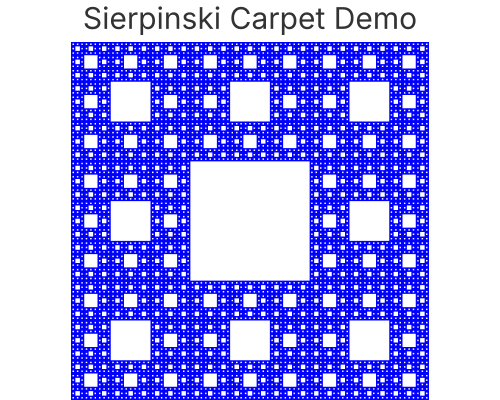
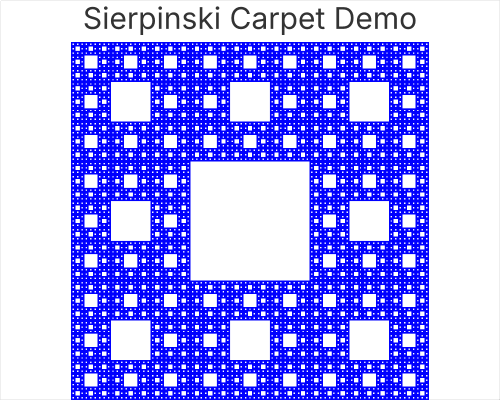
tick gap

Changed region(s): [[0.15, 0.12, 0.87, 1.0]]

diff --git a/src/core/ticks.rs b/src/core/ticks.rs
@@ -18,13 +18,16 @@
 //!    returns its own nice values (`1/2/5` steps, calendar steps, powers of
 //!    ten). Because it rounds, the list can be slightly denser than requested.
 //! 3. **Measure and back off.** The labels that were really produced are
-//!    projected along the axis, rotation included. If neighbours would touch,
-//!    the scale is asked for fewer ticks, which moves it to its next coarser
-//!    step. The first list that fits wins.
+//!    projected along the axis, rotation included. If neighbours would come
+//!    closer than [`LABEL_GAP_IN_FONTS`] font sizes, a continuous scale is asked
+//!    for fewer ticks, which moves it to its next coarser step, and a
+//!    categorical scale keeps every `n`th category. The first list that fits
+//!    wins.
 //!
-//! If even the coarsest step the scale offers does not fit, only the two end
-//! labels are kept: the axis still reads as a range, and the resolver never
-//! invents an interval outside the scale's ladder.
+//! If even the coarsest continuous step (or the sparsest categorical subset)
+//! does not fit, only the two end labels are kept: the axis still reads as a
+//! range, and the resolver never invents an interval outside the scale's
+//! ladder.
 //!
 //! # Overrides
 //!
@@ -60,8 +63,10 @@ const MIN_SEARCH_TICKS: usize = 2;
 /// The most ticks the length budget ever asks for, however long the axis is.
 ///
 /// Without a cap, a 2000-pixel axis would ask for ~40 labels at the default
-/// font size, which is a wall of text rather than a scale.
-const MAX_HINT_TICKS: usize = 12;
+/// font size, which is a wall of text rather than a scale. Ten matches the
+/// upper end of mainstream defaults (D3's `ticks` asks for ten, Matplotlib's
+/// auto locator tops out around nine); twelve was a little too dense.
+const MAX_HINT_TICKS: usize = 10;
 
 /// Room one label wants along the axis, in multiples of the tick font size.
 ///
@@ -70,7 +75,10 @@ const MAX_HINT_TICKS: usize = 12;
 const SPACING_IN_FONTS: f64 = 4.0;
 
 /// Breathing room between two labels, in multiples of the tick font size.
-const LABEL_GAP_IN_FONTS: f64 = 0.5;
+///
+/// One em is roughly two lowercase letters (at ~0.55em each), so neighbouring
+/// labels stay visibly separate instead of reading as one long string.
+const LABEL_GAP_IN_FONTS: f64 = 1.0;
 
 /// Which way the labels run, for measuring a label box against the axis.
 ///
@@ -193,14 +201,18 @@ fn auto_ticks(
     let font_size = theme.tick_label_size.max(1.0);
     let densest = count_hint(available, font_size);
 
+    let gap = (font_size * LABEL_GAP_IN_FONTS).max(2.0);
+
     // A categorical scale owns its tick list: one tick per category, no matter
-    // what count it is asked for. Measuring the categories is still useful (the
-    // axis band needs their width), so hand back what the scale has.
+    // what count it is asked for. When those labels do not fit, thin the list
+    // here rather than asking the scale for a different count it would ignore.
     if matches!(scale.scale_type(), Scale::Discrete) {
-        return scale.suggest_ticks(densest);
+        let ticks = scale.suggest_ticks(densest);
+        return fit_discrete(
+            scale, ticks, available, direction, angle_deg, font_size, gap,
+        );
     }
 
-    let gap = (font_size * LABEL_GAP_IN_FONTS).max(2.0);
     let mut crowded: Option<Vec<Tick>> = None;
 
     // Search the scale's step ladder from dense to coarse. The lower bound is
@@ -232,6 +244,49 @@ fn auto_ticks(
     // individual interior labels instead would produce steps such as 150 or
     // uneven gaps, which mislead a reader who expects equal spacing.
     crowded.map(keep_ends).unwrap_or_default()
+}
+
+/// Keeps every `n`th label of a categorical axis until the labels fit.
+///
+/// A discrete scale always returns one tick per category, so the continuous
+/// back-off loop cannot make it coarser. Dropping categories outright would
+/// misrepresent the axis, but showing every category when the names are long
+/// turns the labels into one unreadable string. Keeping a regular subset is the
+/// categorical equivalent of moving to a coarser nice step.
+fn fit_discrete(
+    scale: &dyn ScaleTrait,
+    ticks: Vec<Tick>,
+    available: f64,
+    direction: AxisDirection,
+    angle_deg: f64,
+    font_size: f64,
+    gap: f64,
+) -> Vec<Tick> {
+    if ticks.len() <= 2 {
+        return ticks;
+    }
+
+    let needed = labels_need(&ticks, direction, angle_deg, font_size) + gap;
+    let adjacent = nearest_gap(scale, &ticks, available);
+    if !adjacent.is_finite() || adjacent <= 0.0 || adjacent >= needed {
+        return ticks;
+    }
+
+    // Categories are evenly spaced, so the smallest step whose gap clears the
+    // widest label is the densest readable subset. Start at two: one already
+    // failed the fit check above.
+    let step = (needed / adjacent).ceil().max(2.0);
+    if !step.is_finite() || step >= ticks.len() as f64 {
+        return keep_ends(ticks);
+    }
+    let step = step as usize;
+    let thinned: Vec<Tick> = ticks.iter().step_by(step).cloned().collect();
+
+    if thinned.len() <= 1 {
+        keep_ends(ticks)
+    } else {
+        thinned
+    }
 }
 
 /// Reduces a tick list to its two end labels.
@@ -284,6 +339,19 @@ mod tests {
         .unwrap()
     }
 
+    fn discrete_scale(labels: &[String]) -> std::sync::Arc<dyn ScaleTrait> {
+        create_scale(
+            &Scale::Discrete,
+            ScaleDomain::Discrete(labels.to_vec()),
+            Expansion {
+                mult: (0.0, 0.0),
+                add: (0.5, 0.5),
+            },
+            None,
+        )
+        .unwrap()
+    }
+
     /// A vertical axis is limited by label *height*, so a tall panel with short
     /// numbers carries a dense but still readable scale.
     #[test]
@@ -299,17 +367,18 @@ mod tests {
             &theme,
         );
 
-        // 600 / (13 x 4) = 11.5, so the budget is 11. All labels are short, so
-        // the densest candidate should survive the fit check.
+        // 600 / (13 x 4) = 11.5, capped at ten. All labels are short, so the
+        // densest candidate should survive the fit check.
         assert!(
-            (9..=12).contains(&ticks.len()),
+            (MIN_HINT_TICKS..=MAX_HINT_TICKS + 1).contains(&ticks.len()),
             "expected a dense but readable y axis, got {} ticks",
             ticks.len()
         );
 
-        // The labels must not touch: they are one font size tall.
+        // Labels are one font size tall and keep a further font size of air.
         let gap = nearest_gap(scale.as_ref(), &ticks, 600.0);
-        assert!(gap >= theme.tick_label_size * 1.5, "labels collide: {gap}");
+        let air = theme.tick_label_size * (1.0 + LABEL_GAP_IN_FONTS);
+        assert!(gap >= air, "labels are too close: gap {gap}, need {air}");
     }
 
     /// Wide labels must reduce the count until the widest one fits between its
@@ -350,10 +419,76 @@ mod tests {
             .iter()
             .map(|t| estimate_text_width(&t.label, theme.tick_label_size))
             .fold(0.0, f64::max);
+        let air = theme.tick_label_size * LABEL_GAP_IN_FONTS;
         assert!(
-            gap + 0.001 >= widest,
-            "labels would overlap: gap {gap}, widest {widest}"
+            gap + 0.001 >= widest + air,
+            "labels are too close: gap {gap}, widest {widest}, air {air}"
         );
+    }
+
+    /// A categorical scale ignores the length budget, so crowded category names
+    /// used to be drawn on top of each other. It now keeps every `n`th label.
+    #[test]
+    fn crowded_category_labels_are_thinned_evenly() {
+        let theme = Theme::default();
+        let labels: Vec<String> = (0..20).map(|i| format!("category {i:02}")).collect();
+        let scale = discrete_scale(&labels);
+
+        let ticks = resolve_ticks(
+            scale.as_ref(),
+            None,
+            240.0,
+            AxisDirection::Horizontal,
+            0.0,
+            &theme,
+        );
+
+        assert!(
+            ticks.len() < labels.len(),
+            "the long category names should have been thinned"
+        );
+        assert!(ticks.len() >= 2, "an axis still needs labels");
+
+        let step = ticks[1].value - ticks[0].value;
+        assert!(step >= 2.0, "step should skip at least one category");
+        assert!(
+            ticks
+                .windows(2)
+                .all(|pair| pair[1].value - pair[0].value == step),
+            "the kept categories should be evenly spaced: {:?}",
+            ticks.iter().map(|tick| tick.value).collect::<Vec<_>>()
+        );
+
+        let gap = nearest_gap(scale.as_ref(), &ticks, 240.0);
+        let widest = ticks
+            .iter()
+            .map(|tick| estimate_text_width(&tick.label, theme.tick_label_size))
+            .fold(0.0, f64::max);
+        let air = theme.tick_label_size * LABEL_GAP_IN_FONTS;
+        assert!(
+            gap + 0.001 >= widest + air,
+            "kept labels are still too close: gap {gap}, widest {widest}, air {air}"
+        );
+    }
+
+    /// Short category labels are left alone; thinning only starts when the
+    /// measured labels need the room.
+    #[test]
+    fn readable_category_labels_are_not_dropped() {
+        let theme = Theme::default();
+        let labels: Vec<String> = ["A", "B", "C"].into_iter().map(String::from).collect();
+        let scale = discrete_scale(&labels);
+
+        let ticks = resolve_ticks(
+            scale.as_ref(),
+            None,
+            600.0,
+            AxisDirection::Horizontal,
+            0.0,
+            &theme,
+        );
+
+        assert_eq!(ticks.len(), labels.len());
     }
 
     /// A huge canvas must not turn into a wall of labels.
@@ -369,8 +504,10 @@ mod tests {
             0.0,
             &theme,
         );
+        // The scale may answer with one more tick than requested when it snaps
+        // to a nice step, but the budget itself stays capped.
         assert!(
-            ticks.len() <= MAX_HINT_TICKS * 2,
+            ticks.len() <= MAX_HINT_TICKS + 1,
             "capped count overshot: {}",
             ticks.len()
         );
@@ -496,13 +633,14 @@ mod tests {
             .map(|tick| estimate_text_width(&tick.label, theme.tick_label_size))
             .fold(0.0, f64::max);
         let gap = nearest_gap(wide.as_ref(), &ticks, 300.0);
+        let air = theme.tick_label_size * LABEL_GAP_IN_FONTS;
         assert!(
-            gap + 0.001 >= widest,
-            "the two end labels still collide: gap {gap}, widest {widest}"
+            gap + 0.001 >= widest + air,
+            "the two end labels still collide: gap {gap}, widest {widest}, air {air}"
         );
     }
 
-    /// A pinned count is not clamped to the automatic 3..12 window.
+    /// A pinned count is not clamped to the automatic 3..10 window.
     #[test]
     fn a_pinned_count_is_not_clamped() {
         let theme = Theme::default().with_tick_count(30);

diff --git a/src/theme.rs b/src/theme.rs
@@ -445,7 +445,7 @@ impl Theme {
     /// By default an axis fits as many readable ticks as the panel allows, so
     /// this is only needed to match a reference figure or to make an axis
     /// deliberately denser or sparser than the automatic rule would. The
-    /// request is deliberately not clamped to the automatic 3..12 window and
+    /// request is deliberately not clamped to the automatic 3..10 window and
     /// not overlap-checked: the scale snaps it to human-friendly values
     /// (`1, 2, 5, 10, ...`), so the axis may end up with a few more or fewer
     /// labels, and on a narrow panel they may overlap.

diff --git a/docs/src/layout/space.md b/docs/src/layout/space.md
@@ -82,16 +82,20 @@ built, so layout and drawing always see the same list.
 
 By default (no `with_tick_count` on the theme) the rule has three steps:
 
-1. **Length budget.** One label per four tick-font sizes, clamped to 3..12. The
+1. **Length budget.** One label per four tick-font sizes, clamped to 3..10. The
    clamp is what keeps a large canvas from turning into a wall of labels: text
-   keeps its physical size, so past a point more labels only add clutter.
+   keeps its physical size, so past a point more labels only add clutter. Ten
+   is the upper end used by mainstream plotting libraries (D3 asks for ten;
+   Matplotlib's auto locator tops out around nine).
 2. **Snap to the scale's ladder.** The budget is passed to the scale, which
    returns its own values (`1/2/5` steps, calendar steps, powers of ten).
    Because it rounds, the list can be slightly denser than requested.
 3. **Measure and back off.** The labels that were really produced are projected
-   along the axis, rotation included. If two neighbours would touch, the scale
-   is asked for fewer ticks, which moves it to its next coarser step. The first
-   list that fits wins.
+   along the axis, rotation included. Neighbours must keep at least one tick
+   font size (about two letters) between their boxes, so labels never read as
+   one continuous string. A continuous scale is asked for fewer ticks, which
+   moves it to its next coarser step; a categorical scale keeps every `n`th
+   category. The first list that fits wins.
 
 The count is therefore a *target*, not a promise. Short numbers pack an axis;
 long labels (dates, category names) thin it out; and the count does not grow
@@ -100,9 +104,9 @@ that drops from nine labels to four stays complete.
 
 Two fallbacks keep the result honest:
 
-- If even the coarsest step does not fit — one label nearly as wide as the axis
-  — only the two ends are labelled. Both are real, nice-aligned values, and no
-  interval is invented.
+- If even the coarsest continuous step, or the sparsest categorical subset,
+  does not fit — one label nearly as wide as the axis — only the two ends are
+  labelled. Both are real values, and no interval is invented.
 - If that is still too sparse for the figure, the labels themselves need
   attention: rotate them (`with_x_tick_label_angle`), shorten them
   (`with_x_label_format` with compact notation or reduced precision), or pin
@@ -111,7 +115,7 @@ Two fallbacks keep the result honest:
 What overrides the automatic rule:
 
 - `Theme::with_tick_count(n)` pins a target for one figure. It is not clamped to
-  3..12 and does not run the fit pass, so the caller owns the density (and any
+  3..10 and does not run the fit pass, so the caller owns the density (and any
   overlap on a narrow panel). The scale still snaps to nice values.
 - `with_x_ticks([...])` / `with_y_ticks([...])` are a contract: every listed
   value is drawn. The band is measured from those labels, so they are never

diff --git a/CHANGELOG.md b/CHANGELOG.md
@@ -4,6 +4,21 @@ All notable changes to the `charton` library are documented here. The project
 follows [Semantic Versioning](https://semver.org/). Releases before 0.7.0
 predate this file.
 
+## [Unreleased]
+
+### Changed
+
+- **Automatic tick density is capped at ten instead of twelve.** Ten is the
+  upper end of mainstream defaults (D3's `ticks` asks for ten; Matplotlib's
+  auto locator tops out around nine), while twelve could still fill a wide
+  panel with labels.
+- **Neighbouring tick labels keep one tick-font size of white space** (about
+  two lowercase letters), up from half a font size. Long years, dates or
+  category names no longer read as one continuous string.
+- **Crowded categorical axes now thin their labels.** A discrete scale still
+  returns one tick per category, but when the measured labels do not fit, every
+  `n`th label is kept instead of drawing all of them on top of each other.
+
 ## [0.9.0] - 2026-10-24
 
 ### Breaking

diff --git a/nu_plugin_charton/CHANGELOG.md b/nu_plugin_charton/CHANGELOG.md
@@ -4,6 +4,16 @@ All notable changes to `nu_plugin_charton` are documented here. The crate
 shares the `charton` version number, and the Nushell release it targets is
 stated in the README and in each release.
 
+## [Unreleased]
+
+### Changed
+
+- **Axis labels are less dense and keep more space.** The automatic fit now
+  caps at ten ticks (was twelve), leaves one tick-font size between neighbouring
+  labels (was half), and thins crowded categorical labels instead of drawing
+  them on top of each other. `--tick-count` and explicit ticks still override
+  the fit.
+
 ## [0.9.0] - 2026-10-24
 
 ### Added
